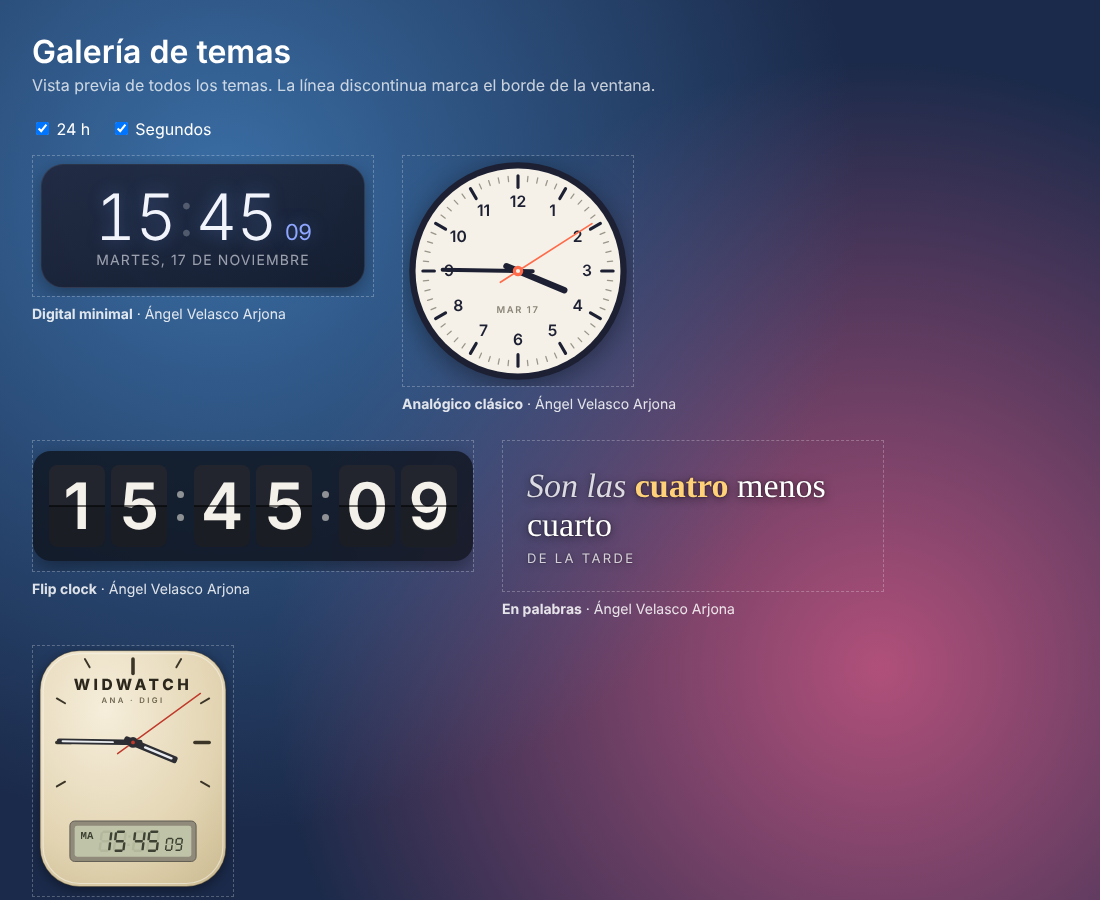
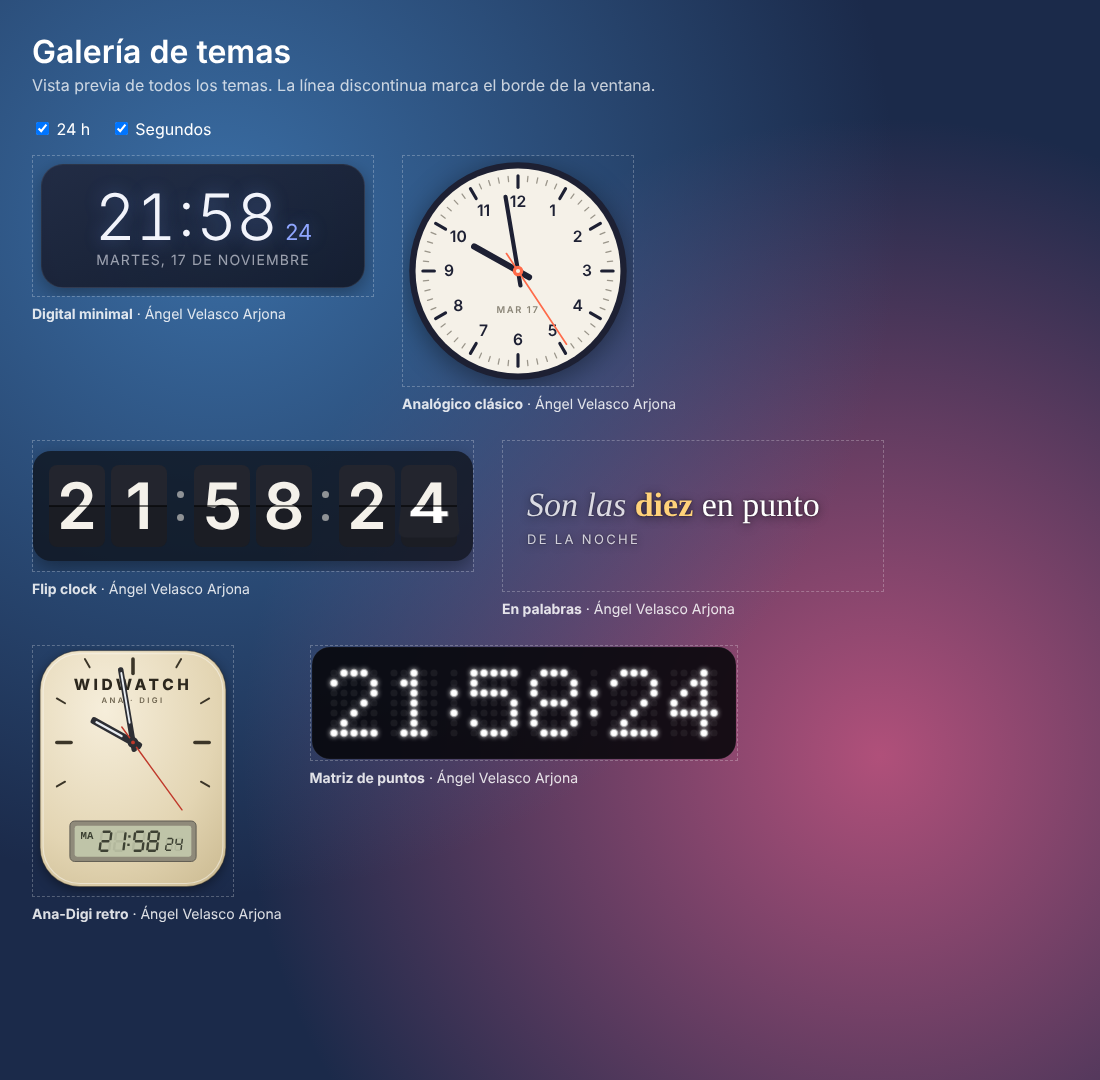
Añadir tema «Matriz de puntos» (dot matrix)
Dígitos de puntos LED 5×7 con halo de luz; puntos apagados tenues,
dos puntos que parpadean y transición suave al cambiar de dígito.
Respeta 24 h, mostrar segundos y la reducción de animaciones de Windows.

Closes #2

Claude-Session: https://claude.ai/code/session_01S99aiU4rayiAWWiaXixeyE

Changed region(s): [[0.0309, 0.0311, 0.7727, 1.0]]

diff --git a/src/themes/dotmatrix/clock.js b/src/themes/dotmatrix/clock.js
@@ -1,0 +1,120 @@
+// Tema "Matriz de puntos": cada dígito es una rejilla de 5×7 puntos LED.
+// Para añadir caracteres nuevos (letras, símbolos) basta con ampliar FONT.
+
+const NS = 'http://www.w3.org/2000/svg';
+
+/** Fuente 5×7: cada carácter son 7 filas de 5 columnas ("1" = punto encendido). */
+const FONT = {
+  0: ['01110', '10001', '10011', '10101', '11001', '10001', '01110'],
+  1: ['00100', '01100', '00100', '00100', '00100', '00100', '01110'],
+  2: ['01110', '10001', '00001', '00010', '00100', '01000', '11111'],
+  3: ['11111', '00010', '00100', '00010', '00001', '10001', '01110'],
+  4: ['00010', '00110', '01010', '10010', '11111', '00010', '00010'],
+  5: ['11111', '10000', '11110', '00001', '00001', '10001', '01110'],
+  6: ['00110', '01000', '10000', '11110', '10001', '10001', '01110'],
+  7: ['11111', '00001', '00010', '00100', '01000', '01000', '01000'],
+  8: ['01110', '10001', '10001', '01110', '10001', '10001', '01110'],
+  9: ['01110', '10001', '10001', '01111', '00001', '00010', '01100'],
+  ' ': ['00000', '00000', '00000', '00000', '00000', '00000', '00000'],
+  ':': ['0', '0', '1', '0', '1', '0', '0'],
+};
+
+const ROWS = 7;
+const PITCH = 10; // distancia entre centros de puntos
+const RADIUS = 3.6;
+const PAD_X = 18;
+const PAD_Y = 22;
+
+const pad = (n) => String(n).padStart(2, '0');
+
+/** Un carácter de la matriz: guarda sus puntos para encenderlos/apagarlos. */
+class DotChar {
+  constructor(svg, col, width) {
+    this.dots = [];
+    for (let r = 0; r < ROWS; r++) {
+      const row = [];
+      for (let c = 0; c < width; c++) {
+        const dot = document.createElementNS(NS, 'circle');
+        dot.setAttribute('cx', PAD_X + (col + c) * PITCH + PITCH / 2);
+        dot.setAttribute('cy', PAD_Y + r * PITCH + PITCH / 2);
+        dot.setAttribute('r', RADIUS);
+        dot.setAttribute('class', 'dot');
+        svg.append(dot);
+        row.push(dot);
+      }
+      this.dots.push(row);
+    }
+    this.value = null;
+  }
+
+  set(char) {
+    if (char === this.value) return;
+    this.value = char;
+    const glyph = FONT[char] ?? FONT[' '];
+    this.dots.forEach((row, r) =>
+      row.forEach((dot, c) => dot.classList.toggle('on', glyph[r][c] === '1')),
+    );
+  }
+}
+
+export default {
+  mount(root, ctx) {
+    this.root = root;
+    this.build(ctx.settings.showSeconds);
+  },
+
+  /** Crea la rejilla. Se rehace solo si cambia "Mostrar segundos". */
+  build(showSeconds) {
+    this.showSeconds = showSeconds;
+    const layout = showSeconds ? 'dd:dd:dd' : 'dd:dd';
+
+    const svg = document.createElementNS(NS, 'svg');
+    svg.setAttribute('class', 'matrix');
+    svg.setAttribute('preserveAspectRatio', 'xMidYMid meet');
+
+    const bg = document.createElementNS(NS, 'rect');
+    bg.setAttribute('class', 'panel');
+    svg.append(bg);
+
+    this.digits = [];
+    this.colons = [];
+    let col = 0;
+    for (const [i, token] of [...layout].entries()) {
+      if (i > 0) col += 1; // una columna de separación entre caracteres
+      if (token === 'd') {
+        this.digits.push(new DotChar(svg, col, 5));
+        col += 5;
+      } else {
+        const colon = new DotChar(svg, col, 1);
+        colon.set(':');
+        this.colons.push(colon);
+        col += 1;
+      }
+    }
+
+    const w = col * PITCH + PAD_X * 2;
+    const h = ROWS * PITCH + PAD_Y * 2;
+    svg.setAttribute('viewBox', `0 0 ${w} ${h}`);
+    Object.entries({ x: 1, y: 1, width: w - 2, height: h - 2, rx: 18 }).forEach(([k, v]) =>
+      bg.setAttribute(k, v),
+    );
+
+    this.root.replaceChildren(svg);
+  },
+
+  update(now, { settings, reducedMotion }) {
+    if (settings.showSeconds !== this.showSeconds) this.build(settings.showSeconds);
+    this.root.classList.toggle('no-anim', reducedMotion);
+
+    let h = now.getHours();
+    if (!settings.hour24) h = h % 12 || 12;
+    // En 12 h se oculta el cero inicial ("9:05" en vez de "09:05"), como en un panel real.
+    const hh = settings.hour24 ? pad(h) : String(h).padStart(2, ' ');
+    const text = hh + pad(now.getMinutes()) + pad(now.getSeconds());
+
+    this.digits.forEach((d, i) => d.set(text[i]));
+
+    const blink = now.getSeconds() % 2 === 1 && !reducedMotion;
+    for (const c of this.colons) c.set(blink ? ' ' : ':');
+  },
+};

diff --git a/src/themes/dotmatrix/style.css b/src/themes/dotmatrix/style.css
@@ -1,0 +1,35 @@
+.theme-dotmatrix {
+  width: 100%;
+  height: 100%;
+}
+
+.theme-dotmatrix .matrix {
+  width: 100%;
+  height: 100%;
+  overflow: visible;
+}
+
+.theme-dotmatrix .panel {
+  fill: rgba(6, 6, 9, 0.88);
+  stroke: rgba(255, 255, 255, 0.06);
+  stroke-width: 1;
+}
+
+/* Punto apagado: apenas visible, como en un panel LED real */
+.theme-dotmatrix .dot {
+  fill: rgba(255, 255, 255, 0.06);
+  stroke: transparent;
+  stroke-width: 1.4;
+  transition: fill 0.25s ease, stroke 0.25s ease, filter 0.25s ease;
+}
+
+/* Punto encendido: blanco con anillo gris y halo de luz */
+.theme-dotmatrix .dot.on {
+  fill: #ffffff;
+  stroke: rgba(170, 170, 170, 0.75);
+  filter: drop-shadow(0 0 2.5px rgba(255, 255, 255, 0.75));
+}
+
+.theme-dotmatrix.no-anim .dot {
+  transition: none;
+}

diff --git a/README.md b/README.md
@@ -21,6 +21,7 @@ Reloj de escritorio para Windows, ligero, de código abierto y con **temas cread
 | **Analógico clásico** | SVG con segundero de barrido suave a 60 fps. |
 | **Flip clock** | Tarjetas que se voltean con animación 3D. |
 | **En palabras** | «Son las tres y cuarto de la tarde». |
+| **Matriz de puntos** | Dígitos de puntos LED 5×7 con halo de luz, como un panel de estación. |
 | **Ana-Digi retro** | Reloj de pulsera ochentero: agujas, segundero de cuarzo con rebote y LCD de 7 segmentos que se ilumina al pasar el ratón. |
 
 ## Instalar
